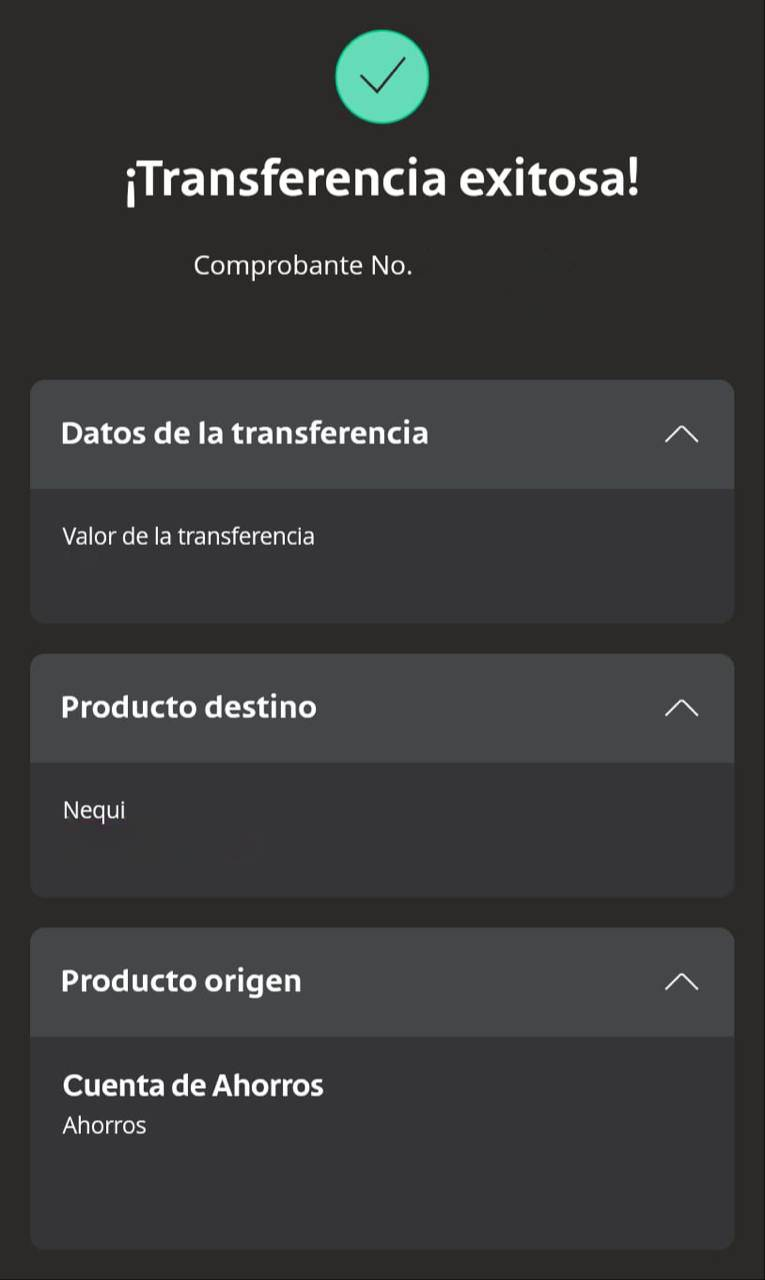
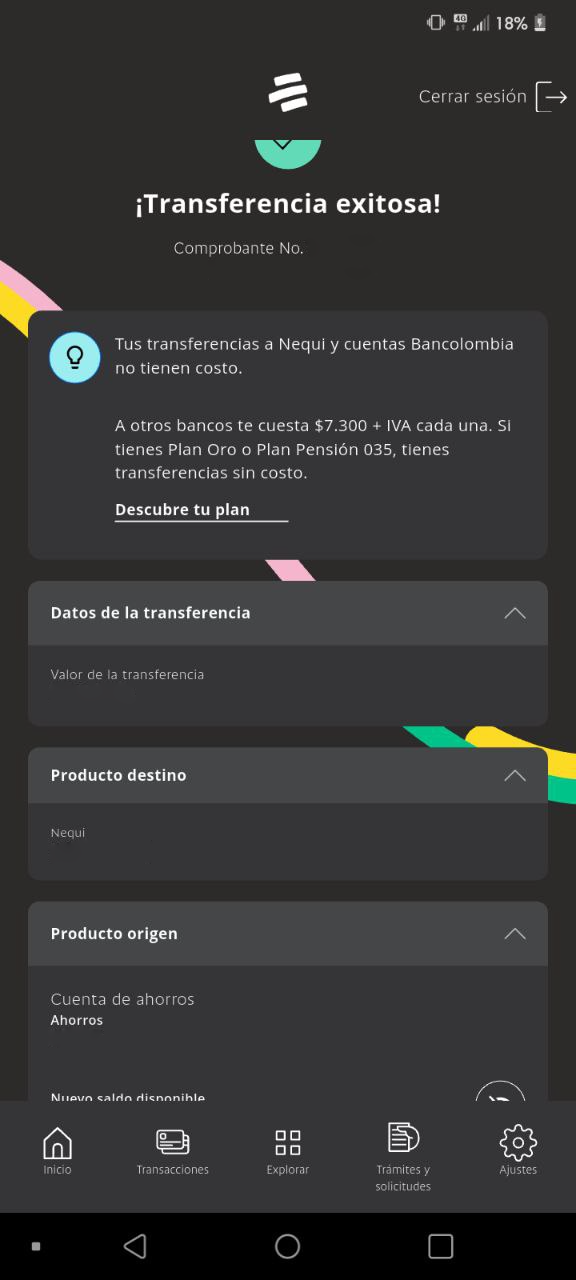
Agregado botón NQ QR NORMAL y actualizada plantilla BC a Nequi

diff --git a/main.py b/main.py
@@ -32,7 +32,9 @@ from config import (
     COMPROBANTE_ANULADO_CONFIG,
     MOVIMIENTO_AHORROS_CONFIG,
     MOVIMIENTO_QR_BC_CONFIG,
-    COMPROBANTE_LLAVES_DAVIPLATA_CONFIG
+    COMPROBANTE_LLAVES_DAVIPLATA_CONFIG,
+    COMPROBANTE_NQ_QR_NORMAL_CONFIG,
+    MOVIMIENTO_NQ_QR_NORMAL_CONFIG
 )
 from utils import generar_comprobante, ofuscar_nombre, generar_comprobante_nequi_bc, generar_comprobante_bc_nq_t, generar_comprobante_bc_qr, generar_comprobante_nequi_ahorros, generar_comprobante_ahorros, generar_comprobante_bc_nequi, generar_movimientos_bc_nequi, generar_comprobante_qr_bc, generar_comprobante_anulado, generar_movimiento_ahorros, generar_movimiento_qr_bc, generar_comprobante_llaves_daviplata
 
@@ -179,6 +181,7 @@ async def nequicol_command(update: Update, context: ContextTypes.DEFAULT_TYPE) -
             ["🏦 QR BC", "💳 BC a Nequi"],
             ["🏛️ BC a BC", "🔵 DaviPlata"],
             ["📱 QR DaviPlata", "💳 Llaves DaviPlata"],
+            ["📲 NQ QR NORMAL"],
             ["✅ Anulado"],
             ["❌ Cancelar"]
         ]
@@ -424,7 +427,8 @@ async def button_handler(update: Update, context: ContextTypes.DEFAULT_TYPE) -> 
             "comprobante_qr": "🏬 Nombre del negocio:",
             "comprobante_llave": "👤 Ingresa el nombre a enviar:",
             "bancolombia": "👤 Ingresa el nombre del destinario:",
-            "llaves_daviplata": "👤 Ingresa el nombre del destinatario:"
+            "llaves_daviplata": "👤 Ingresa el nombre del destinatario:",
+            "nq_qr_normal": "🏬 Ingresa el nombre del negocio:"
         }
         await query.message.reply_text(
             prompts.get(tipo, "🔍 Por favor, inicia ingresando los datos requeridos:"),
@@ -520,6 +524,7 @@ async def handle_message(update: Update, context: ContextTypes.DEFAULT_TYPE) -> 
             "🔵 DaviPlata": "daviplata",
             "📱 QR DaviPlata": "qr_daviplata",
             "💳 Llaves DaviPlata": "llaves_daviplata",
+            "📲 NQ QR NORMAL": "nq_qr_normal",
             "✅ Anulado": "comprobante_anulado"
         }
         
@@ -559,6 +564,7 @@ async def handle_message(update: Update, context: ContextTypes.DEFAULT_TYPE) -> 
                 "bc_bc": "👤 Ingresa el nombre:",
                 "daviplata": "📱 Ingresa el número DaviPlata (mínimo 10 dígitos):",
                 "llaves_daviplata": "👤 Ingresa el nombre del destinatario:",
+                "nq_qr_normal": "🏬 Ingresa el nombre del negocio:",
                 "comprobante_anulado": "👤 ¿Nombre de la víctima?"
             }
             await update.message.reply_text(
@@ -1556,6 +1562,64 @@ async def handle_message(update: Update, context: ContextTypes.DEFAULT_TYPE) -> 
                         user_data_store[user_id]["fecha_manual"] = True
                     if referencia_flag:
                         user_data_store[user_id]["referencia_manual"] = True
+        
+        # --- NQ QR NORMAL ---
+        elif tipo == "nq_qr_normal":
+            if step == 0:
+                data["nombre"] = text
+                data["step"] = 1
+                await update.message.reply_text("💰 Ingresa el valor:")
+            elif step == 1 or data.get("fecha_recibida", False):
+                # Si viene de fecha_recibida, el valor ya está en data
+                if not data.get("fecha_recibida", False):
+                    if not text.replace("-", "", 1).isdigit():
+                        await update.message.reply_text(
+                            "⚠️ El valor debe ser numérico.",
+                            parse_mode='Markdown'
+                        )
+                        return
+                    data["valor"] = int(text)
+                    # Verificar si necesita pedir fecha manual (para TODOS)
+                    if await verificar_fecha_manual():
+                        return
+                # Verificar que el valor esté guardado antes de continuar
+                if "valor" not in data:
+                    await update.message.reply_text(
+                        "⚠️ Error: No se encontró el valor. Por favor, intenta de nuevo.",
+                        parse_mode='Markdown'
+                    )
+                    limpiar_sesion_preservando_flags()
+                    return
+                # Si tiene fecha manual, usarla
+                if fecha_manual and "fecha_manual_value" in data:
+                    data["fecha"] = data["fecha_manual_value"]
+                # Limpiar flag de fecha_recibida
+                data.pop("fecha_recibida", None)
+                output_path = generar_comprobante(data, COMPROBANTE_NQ_QR_NORMAL_CONFIG)
+                if output_path is None:
+                    await update.message.reply_text(
+                        "⚠️ Error al generar el comprobante NQ QR Normal.",
+                        parse_mode='Markdown'
+                    )
+                    limpiar_sesion_preservando_flags()
+                    return
+                
+                # Enviar comprobante como documento
+                if await send_document(output_path, "✅ Comprobante NQ QR Normal generado"):
+                    # Generar movimiento negativo
+                    data_mov = data.copy()
+                    data_mov["nombre"] = data["nombre"].upper()
+                    data_mov["valor"] = -abs(data["valor"])
+                    output_path_mov = generar_comprobante(data_mov, MOVIMIENTO_NQ_QR_NORMAL_CONFIG)
+                    if output_path_mov is None:
+                        await update.message.reply_text(
+                            "⚠️ Error al generar el movimiento NQ QR Normal.",
+                            parse_mode='Markdown'
+                        )
+                    else:
+                        await send_document(output_path_mov, "📄 Movimiento NQ QR Normal generado")
+                
+                limpiar_sesion_preservando_flags()
         
         # --- COMPROBANTE ANULADO ---
         elif tipo == "comprobante_anulado":

diff --git a/config.py b/config.py
@@ -105,6 +105,33 @@ COMPROBANTE_LLAVE = {
     "font": "fuentes/Manrope-Medium.ttf",
 }
 
+# Configuración para comprobante NQ QR Normal
+COMPROBANTE_NQ_QR_NORMAL_CONFIG = {
+    "template": "img/qr_nequinormal.png",
+    "output": "comprobante_nq_qr_normal_generado.png",
+    "styles": {
+        "nombre": {"size": 85, "color": "#2e2b33", "pos": (273, 2114), "font": "fuentes/Manrope-Medium.ttf"},
+        "valor1": {"size": 85, "color": "#2e2b33", "pos": (273, 2510), "font": "fuentes/Manrope-Medium.ttf"},
+        "fecha": {"size": 85, "color": "#2e2b33", "pos": (273, 2870), "font": "fuentes/Manrope-Medium.ttf"},
+        "referencia": {"size": 85, "color": "#2e2b33", "pos": (273, 3250), "font": "fuentes/Manrope-Medium.ttf"},
+        "disponible": {"size": 85, "color": "#2e2b33", "pos": (273, 3640), "font": "fuentes/Manrope-Medium.ttf"},
+    },
+    "font": "fuentes/Manrope-Medium.ttf",
+}
+
+# Configuración para movimiento NQ QR Normal
+MOVIMIENTO_NQ_QR_NORMAL_CONFIG = {
+    "template": "img/movement.jpg",
+    "output": "movimiento_nq_qr_normal_generado.png",
+    "styles": {
+        "nombre": {"size": 16, "color": "#262626", "pos": (78, 340), "font": "fuentes/Manrope-Medium.ttf"},
+        "valor1": {"size": 18, "color": "#C85C6E", "pos": (323, 355), "max_width": 200, "font": "fuentes/Manrope-Bold.ttf"},
+        "valor_decimal": {"size": 26, "color": "#C85C6E", "pos": (0, 0), "font": "fuentes/Manrope-Bold.ttf"},
+        "hora_esquina": {"size": 22, "color": "#FFFFFF", "pos": (19, 13)},
+    },
+    "font": "fuentes/Manrope-Medium.ttf",
+}
+
 # Configuración para comprobante Anulado
 COMPROBANTE_ANULADO_CONFIG = {
     "template": "img/anulado.jpg",
@@ -271,28 +298,31 @@ COLORES_BC = {
 
 # ✅ Configuración original para comprobante BC a Nequi
 COORDENADAS_NEQUI_BC = {
-    'fecha': (238, 302),
-    'valor': (70, 565),
-    'numero': (65, 840),
-    'comprobante': (420, 250),
-    'cuenta_ahorros': (65, 1150),
+    'hora': (20, 14),
+    'fecha': (211, 268),
+    'valor': (48, 690),
+    'numero': (50, 845),
+    'comprobante': (314, 234),
+    'cuenta_ahorros': (50, 1035),
     'nombre': (50, 1010),
 }
 
 FUENTES_NEQUI_BC = {
-    'numero': 30,
-    'valor': 32,
-    'fecha': 23,
-    'nombre': 23,
-    'comprobante': 25,
-    'cuenta_ahorros': 30,
+    'hora': 18,
+    'numero': 20,
+    'valor': 22,
+    'fecha': 16,
+    'nombre': 18,
+    'comprobante': 17,
+    'cuenta_ahorros': 20,
 }
 
 COLORES_NEQUI_BC = {
+    'hora': (255, 255, 255),
     'numero': (255, 255, 255),
     'valor': (255, 255, 255),
-    'fecha': (255, 255, 255),
-    'comprobante': (255, 255, 255),
+    'fecha': (160, 160, 160),
+    'comprobante': (160, 160, 160),
     'cuenta_ahorros': (255, 255, 255),
 }
 